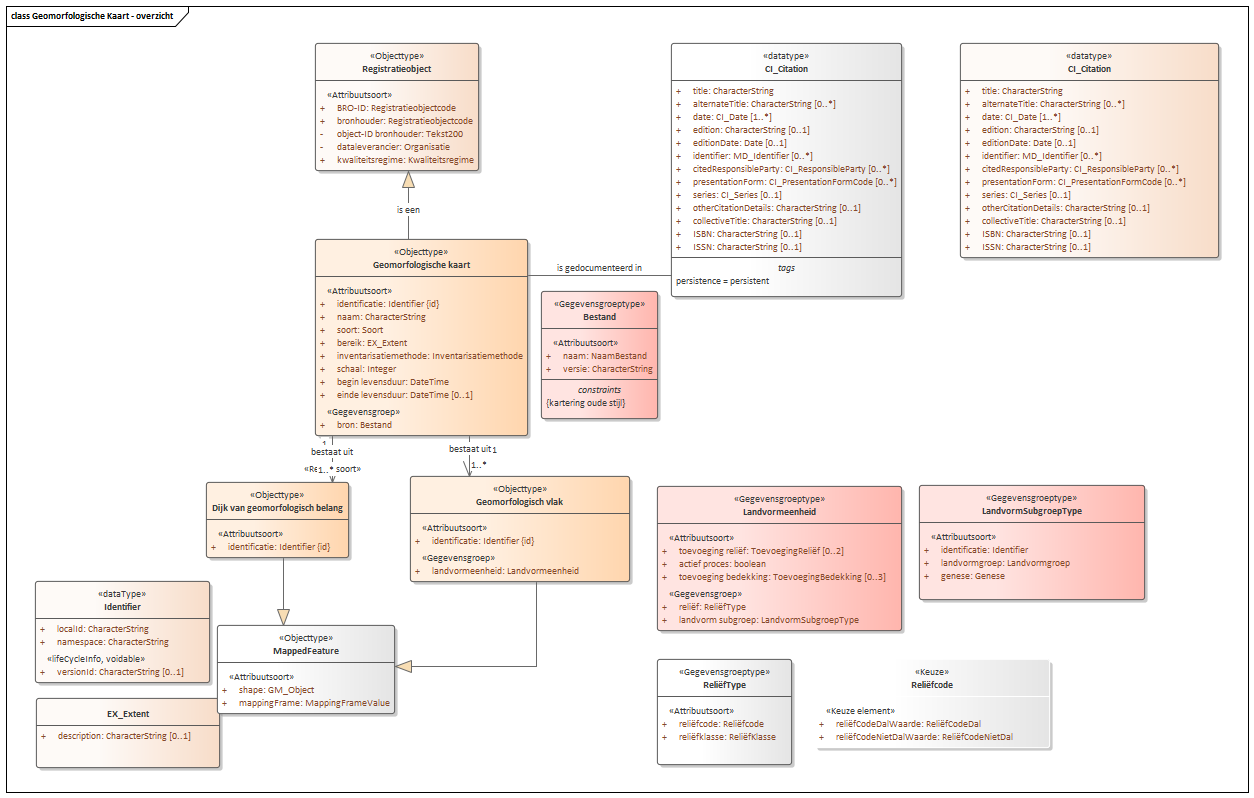
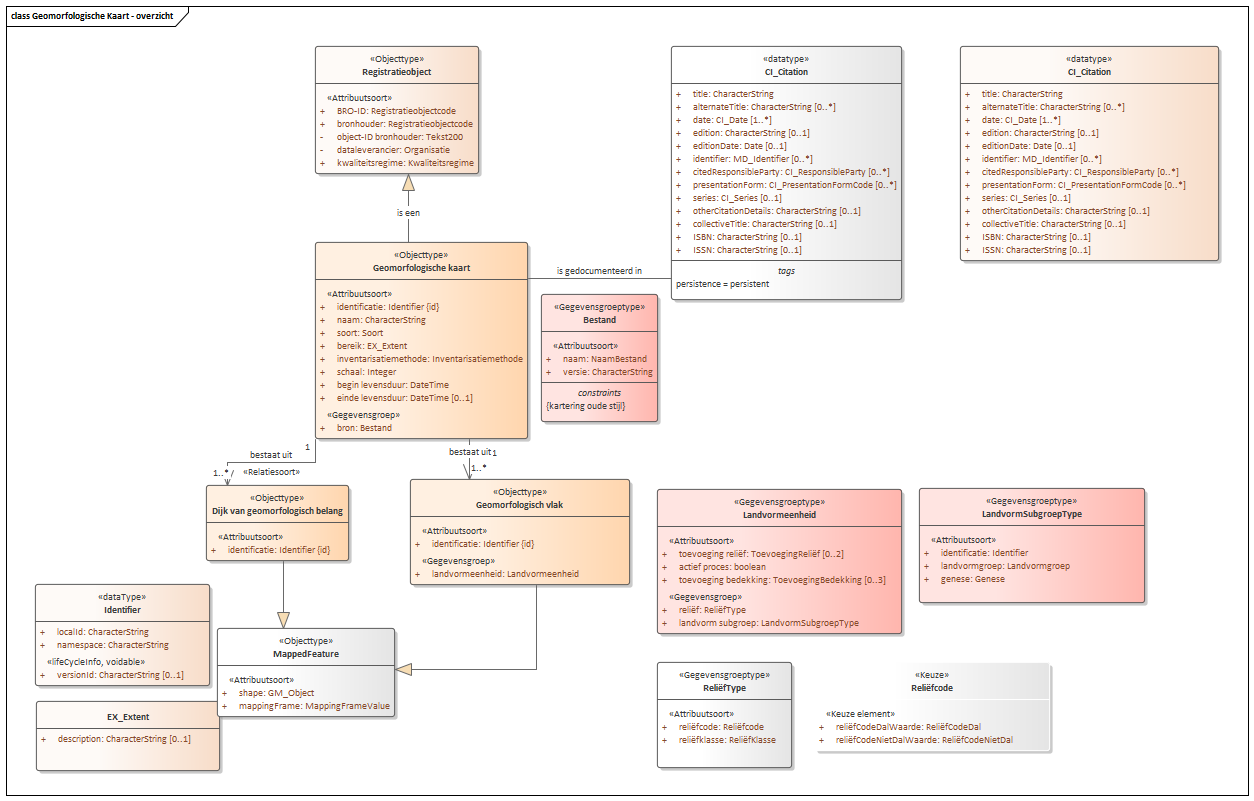
Conceptualmodel-GeomorfologischekaartGMM-conceptueel-1.0-1-20190510-20210421-165503

diff --git a/data/GMM-cat.msword.html b/data/GMM-cat.msword.html
@@ -15,7 +15,7 @@
    <body>
       <p>Conceptual model/Geomorfologische kaart (GMM) - conceptueel/20190510</p>
       <p>Imvertor: 1.64.0</p>
-      <p>Model release: Conceptualmodel-GeomorfologischekaartGMM-conceptueel-1.0-1-20190510-20210421-165047</p>
+      <p>Model release: Conceptualmodel-GeomorfologischekaartGMM-conceptueel-1.0-1-20190510-20210421-165503</p>
       <hr>
       <section>
          <h1>Artikel 1 Definitie van registratieobject, entiteiten en attributen</h1>
@@ -50,7 +50,7 @@
          <section>
             <h2>Het domeinmodel</h2>
             <section id="">
-               <div class="imageinfo overview"><img src="Images/EAID_160626A1_CCDD_4032_B4D5_D30FF8FE4847.png" usemap="#imagemap-EAID_160626A1_CCDD_4032_B4D5_D30FF8FE4847" alt="Diagram Ontwerp conceptueel model voor de Geomorfologische kaart, ten behoeve van de Basisregistratie Ondergrond (BRO)."><map name="imagemap-EAID_160626A1_CCDD_4032_B4D5_D30FF8FE4847"><area shape="rect" alt="Registratieobject" coords="315,43,479,171" href="#graph_EAID_9C4A219D_7AF2_4b3a_A169_62458D7D8E93"><area shape="rect" alt="Reliëfcode" coords="814,659,1050,748" href="#graph_EAID_BFEEA89D_0D4C_4c95_BC1D_762A18EB6F9B"><area shape="rect" alt="ReliëfType" coords="657,659,792,765" href="#graph_EAID_CF085D60_ACA5_422f_A726_C21B2D6549C3"><area shape="rect" alt="LandvormSubgroepType" coords="919,485,1145,600" href="#graph_EAID_F5CF0FBC_08E7_49d2_8E14_D592AE2EAC26"><area shape="rect" alt="Landvormeenheid" coords="657,486,902,631" href="#graph_EAID_F1A1F858_8446_411b_A110_BA4C54C97740"><area shape="rect" alt="Bestand" coords="541,291,658,419" href="#graph_EAID_855C49C9_52D4_4f86_89D7_DFADF4760977"><area shape="rect" alt="Dijk van geomorfologisch belang" coords="206,482,349,558" href="#graph_EAID_843FBABD_EBF0_4f1a_B37D_3D27CF51E1E4"><area shape="rect" alt="Geomorfologisch vlak" coords="410,476,630,582" href="#graph_EAID_79B1980D_BA7A_45db_8EF1_F9DCFF6B5389"><area shape="rect" alt="Geomorfologische kaart" coords="315,239,528,436" href="#graph_EAID_6153A93B_5EF8_4e22_8EEC_7CF612ACE3D6"></map><p><b>Geomorfologische Kaart</b> — Ontwerp conceptueel model voor de Geomorfologische kaart, ten behoeve van de Basisregistratie
+               <div class="imageinfo overview"><img src="Images/EAID_160626A1_CCDD_4032_B4D5_D30FF8FE4847.png" usemap="#imagemap-EAID_160626A1_CCDD_4032_B4D5_D30FF8FE4847" alt="Diagram Ontwerp conceptueel model voor de Geomorfologische kaart, ten behoeve van de Basisregistratie Ondergrond (BRO)."><map name="imagemap-EAID_160626A1_CCDD_4032_B4D5_D30FF8FE4847"><area shape="rect" alt="Registratieobject" coords="315,46,479,174" href="#graph_EAID_9C4A219D_7AF2_4b3a_A169_62458D7D8E93"><area shape="rect" alt="Reliëfcode" coords="814,662,1050,751" href="#graph_EAID_BFEEA89D_0D4C_4c95_BC1D_762A18EB6F9B"><area shape="rect" alt="ReliëfType" coords="657,662,792,768" href="#graph_EAID_CF085D60_ACA5_422f_A726_C21B2D6549C3"><area shape="rect" alt="LandvormSubgroepType" coords="919,488,1145,603" href="#graph_EAID_F5CF0FBC_08E7_49d2_8E14_D592AE2EAC26"><area shape="rect" alt="Landvormeenheid" coords="657,489,902,634" href="#graph_EAID_F1A1F858_8446_411b_A110_BA4C54C97740"><area shape="rect" alt="Bestand" coords="541,294,658,422" href="#graph_EAID_855C49C9_52D4_4f86_89D7_DFADF4760977"><area shape="rect" alt="Dijk van geomorfologisch belang" coords="206,485,349,561" href="#graph_EAID_843FBABD_EBF0_4f1a_B37D_3D27CF51E1E4"><area shape="rect" alt="Geomorfologisch vlak" coords="410,479,630,585" href="#graph_EAID_79B1980D_BA7A_45db_8EF1_F9DCFF6B5389"><area shape="rect" alt="Geomorfologische kaart" coords="315,242,528,439" href="#graph_EAID_6153A93B_5EF8_4e22_8EEC_7CF612ACE3D6"></map><p><b>Geomorfologische Kaart</b> — Ontwerp conceptueel model voor de Geomorfologische kaart, ten behoeve van de Basisregistratie
                      Ondergrond (BRO).</p>
                </div>
             </section>
@@ -408,7 +408,7 @@
                            </tr>
                         </tbody>
                      </table>
-                     </section><a class="anchor" id="detail_d19397e2796"></a><section id="detail_d19397e2796">
+                     </section><a class="anchor" id="detail_d19421e2796"></a><section id="detail_d19421e2796">
                      <h4>  bron</h4>
                      <table style="width: 100%;">
                         <colgroup style="width: 30%;"></colgroup>
@@ -702,7 +702,7 @@
                            </tr>
                         </tbody>
                      </table>
-                     </section><a class="anchor" id="detail_d19397e3508"></a><section id="detail_d19397e3508">
+                     </section><a class="anchor" id="detail_d19421e3508"></a><section id="detail_d19421e3508">
                      <h4>  landvormeenheid</h4>
                      <table style="width: 100%;">
                         <colgroup style="width: 30%;"></colgroup>
@@ -885,7 +885,7 @@
                            </tr>
                         </tbody>
                      </table>
-                     </section><a class="anchor" id="detail_d19397e4261"></a><section id="detail_d19397e4261">
+                     </section><a class="anchor" id="detail_d19421e4261"></a><section id="detail_d19421e4261">
                      <h4>  reliëf</h4>
                      <table style="width: 100%;">
                         <colgroup style="width: 30%;"></colgroup>
@@ -918,7 +918,7 @@
                            </tr>
                         </tbody>
                      </table>
-                  </section><a class="anchor" id="detail_d19397e4428"></a><section id="detail_d19397e4428">
+                  </section><a class="anchor" id="detail_d19421e4428"></a><section id="detail_d19421e4428">
                      <h4>  landvorm subgroep</h4>
                      <table style="width: 100%;">
                         <colgroup style="width: 30%;"></colgroup>
@@ -1146,6 +1146,13 @@
                            <tr>
                               <th>Type gegeven</th>
                               <td>Attribuut van ReliëfType</td>
+                           </tr>
+                           <tr>
+                              <th>Definitie</th>
+                              <td>
+                                 
+                                 <p>Klasse van reliëf.</p>
+                                 </td>
                            </tr>
                            <tr>
                               <th>Juridische status</th>

diff --git a/data/GMM-cat.respec.html b/data/GMM-cat.respec.html
@@ -28,7 +28,7 @@
       </section>
    <section id="">
       <h2>Het domeinmodel   </h2>
-      <div class="imageinfo overview"><img src="data/Images/EAID_160626A1_CCDD_4032_B4D5_D30FF8FE4847.png" usemap="#imagemap-EAID_160626A1_CCDD_4032_B4D5_D30FF8FE4847" alt="Diagram Ontwerp conceptueel model voor de Geomorfologische kaart, ten behoeve van de Basisregistratie Ondergrond (BRO)."><map name="imagemap-EAID_160626A1_CCDD_4032_B4D5_D30FF8FE4847"><area shape="rect" alt="Registratieobject" coords="315,43,479,171" href="#graph_EAID_9C4A219D_7AF2_4b3a_A169_62458D7D8E93"><area shape="rect" alt="Reliëfcode" coords="814,659,1050,748" href="#graph_EAID_BFEEA89D_0D4C_4c95_BC1D_762A18EB6F9B"><area shape="rect" alt="ReliëfType" coords="657,659,792,765" href="#graph_EAID_CF085D60_ACA5_422f_A726_C21B2D6549C3"><area shape="rect" alt="LandvormSubgroepType" coords="919,485,1145,600" href="#graph_EAID_F5CF0FBC_08E7_49d2_8E14_D592AE2EAC26"><area shape="rect" alt="Landvormeenheid" coords="657,486,902,631" href="#graph_EAID_F1A1F858_8446_411b_A110_BA4C54C97740"><area shape="rect" alt="Bestand" coords="541,291,658,419" href="#graph_EAID_855C49C9_52D4_4f86_89D7_DFADF4760977"><area shape="rect" alt="Dijk van geomorfologisch belang" coords="206,482,349,558" href="#graph_EAID_843FBABD_EBF0_4f1a_B37D_3D27CF51E1E4"><area shape="rect" alt="Geomorfologisch vlak" coords="410,476,630,582" href="#graph_EAID_79B1980D_BA7A_45db_8EF1_F9DCFF6B5389"><area shape="rect" alt="Geomorfologische kaart" coords="315,239,528,436" href="#graph_EAID_6153A93B_5EF8_4e22_8EEC_7CF612ACE3D6"></map><p><b>Geomorfologische Kaart</b> — Ontwerp conceptueel model voor de Geomorfologische kaart, ten behoeve van de Basisregistratie
+      <div class="imageinfo overview"><img src="data/Images/EAID_160626A1_CCDD_4032_B4D5_D30FF8FE4847.png" usemap="#imagemap-EAID_160626A1_CCDD_4032_B4D5_D30FF8FE4847" alt="Diagram Ontwerp conceptueel model voor de Geomorfologische kaart, ten behoeve van de Basisregistratie Ondergrond (BRO)."><map name="imagemap-EAID_160626A1_CCDD_4032_B4D5_D30FF8FE4847"><area shape="rect" alt="Registratieobject" coords="315,46,479,174" href="#graph_EAID_9C4A219D_7AF2_4b3a_A169_62458D7D8E93"><area shape="rect" alt="Reliëfcode" coords="814,662,1050,751" href="#graph_EAID_BFEEA89D_0D4C_4c95_BC1D_762A18EB6F9B"><area shape="rect" alt="ReliëfType" coords="657,662,792,768" href="#graph_EAID_CF085D60_ACA5_422f_A726_C21B2D6549C3"><area shape="rect" alt="LandvormSubgroepType" coords="919,488,1145,603" href="#graph_EAID_F5CF0FBC_08E7_49d2_8E14_D592AE2EAC26"><area shape="rect" alt="Landvormeenheid" coords="657,489,902,634" href="#graph_EAID_F1A1F858_8446_411b_A110_BA4C54C97740"><area shape="rect" alt="Bestand" coords="541,294,658,422" href="#graph_EAID_855C49C9_52D4_4f86_89D7_DFADF4760977"><area shape="rect" alt="Dijk van geomorfologisch belang" coords="206,485,349,561" href="#graph_EAID_843FBABD_EBF0_4f1a_B37D_3D27CF51E1E4"><area shape="rect" alt="Geomorfologisch vlak" coords="410,479,630,585" href="#graph_EAID_79B1980D_BA7A_45db_8EF1_F9DCFF6B5389"><area shape="rect" alt="Geomorfologische kaart" coords="315,242,528,439" href="#graph_EAID_6153A93B_5EF8_4e22_8EEC_7CF612ACE3D6"></map><p><b>Geomorfologische Kaart</b> — Ontwerp conceptueel model voor de Geomorfologische kaart, ten behoeve van de Basisregistratie
             Ondergrond (BRO).</p>
       </div>
    </section>
@@ -384,7 +384,7 @@
                   </tr>
                </tbody>
             </table>
-            </section><a class="anchor" id="detail_d19397e2796"></a><section id="detail_d19397e2796">
+            </section><a class="anchor" id="detail_d19421e2796"></a><section id="detail_d19421e2796">
             <h4>  bron</h4>
             <table style="width: 100%;">
                <colgroup style="width: 30%;"></colgroup>
@@ -678,7 +678,7 @@
                   </tr>
                </tbody>
             </table>
-            </section><a class="anchor" id="detail_d19397e3508"></a><section id="detail_d19397e3508">
+            </section><a class="anchor" id="detail_d19421e3508"></a><section id="detail_d19421e3508">
             <h4>  landvormeenheid</h4>
             <table style="width: 100%;">
                <colgroup style="width: 30%;"></colgroup>
@@ -861,7 +861,7 @@
                   </tr>
                </tbody>
             </table>
-            </section><a class="anchor" id="detail_d19397e4261"></a><section id="detail_d19397e4261">
+            </section><a class="anchor" id="detail_d19421e4261"></a><section id="detail_d19421e4261">
             <h4>  reliëf</h4>
             <table style="width: 100%;">
                <colgroup style="width: 30%;"></colgroup>
@@ -894,7 +894,7 @@
                   </tr>
                </tbody>
             </table>
-         </section><a class="anchor" id="detail_d19397e4428"></a><section id="detail_d19397e4428">
+         </section><a class="anchor" id="detail_d19421e4428"></a><section id="detail_d19421e4428">
             <h4>  landvorm subgroep</h4>
             <table style="width: 100%;">
                <colgroup style="width: 30%;"></colgroup>
@@ -1122,6 +1122,13 @@
                   <tr>
                      <th>Type gegeven</th>
                      <td>Attribuut van ReliëfType</td>
+                  </tr>
+                  <tr>
+                     <th>Definitie</th>
+                     <td>
+                        
+                        <p>Klasse van reliëf.</p>
+                        </td>
                   </tr>
                   <tr>
                      <th>Juridische status</th>
